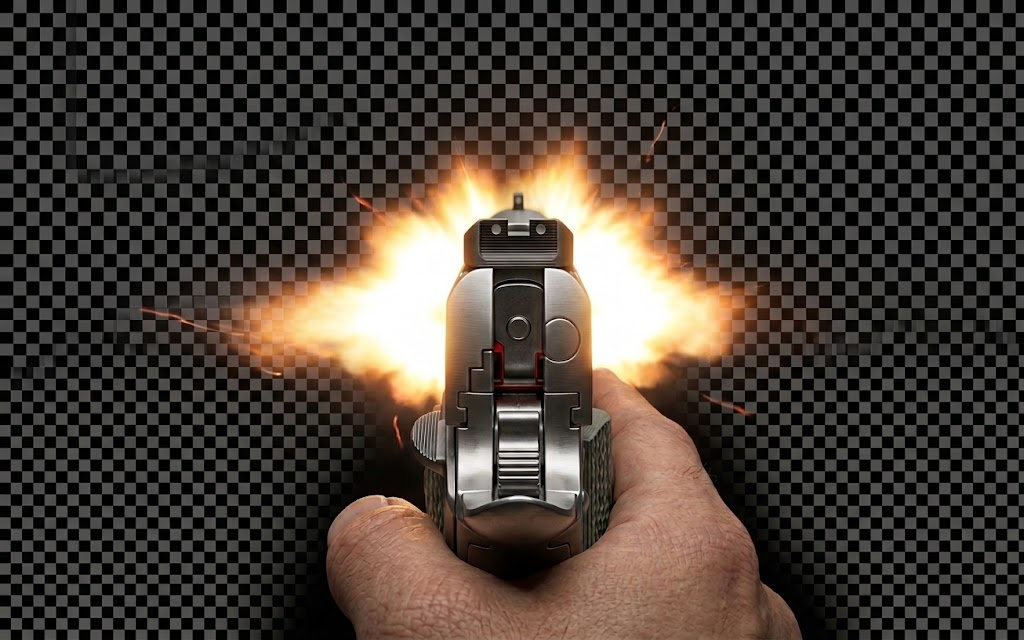
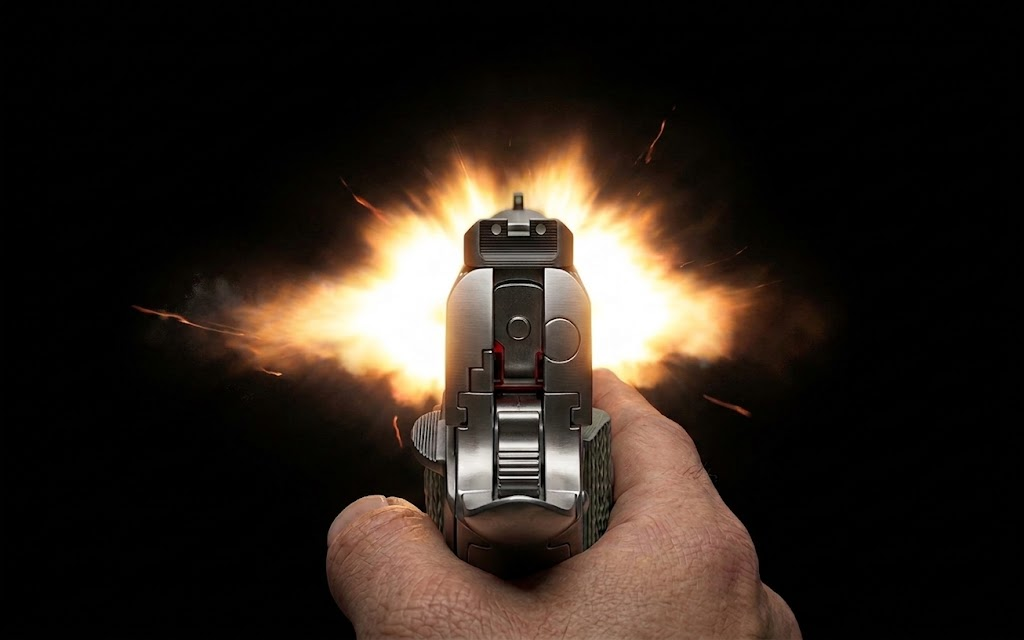
Use the cleaner background-removed weapon art
- Pistol, shotgun, and chaingun now load from GunsNoBackground: clean
  cutouts, and the chaingun sheet has no frame lines or labels so its
  cells slice cleanly
- The shotgun gains a real firing frame (muzzle blast), replacing the
  drawn flash
- Weapon art paths are folder-qualified so entries can mix My Guns
  and GunsNoBackground; new folder ships with the repo

diff --git a/index.html b/index.html
@@ -2151,16 +2151,17 @@ let gunFireT = 99;   // seconds since the current weapon last fired
 // become firing animations. Always outranks the gif art.
 // -----------------------------------------------------
 const MY_GUN_ART = [
-  { file: "hand idle.png",      slot: 0, mode: "single", use: "idle" },
-  { file: "fist.png",           slot: 0, mode: "single", use: "fire" },
-  { file: "pistol.png",         slot: 1, mode: "single", use: "idle" },
-  { file: "pistol shooting.png", slot: 1, mode: "single", use: "fire" },
-  { file: "shotgun.png",        slot: 2, mode: "single", use: "idle" },
-  { file: "chaingun.png",       slot: 3, mode: "grid", cols: 4, rows: 2, idle: 0, fire: [1, 2, 3], inset: 0.085 },
-  { file: "rocketlauncher.png", slot: 4, mode: "grid", cols: 4, rows: 3, idle: 0, fire: [2, 3, 4], inset: 0.02 },
-  { file: "plasma gun.png",     slot: 5, mode: "grid", cols: 3, rows: 2, idle: 0, fire: [1, 2, 4], inset: 0.07, capBottom: 0.09 },
-  { file: "BFG2704.png",        slot: 6, mode: "single", use: "idle" },
-  { file: "chainsaw.png",       slot: 7, mode: "grid", cols: 4, rows: 2, idle: 0, fire: [1, 2, 3, 4, 5], inset: 0.02, capBottom: 0.06 },
+  { file: "My Guns/hand idle.png",      slot: 0, mode: "single", use: "idle" },
+  { file: "My Guns/fist.png",           slot: 0, mode: "single", use: "fire" },
+  { file: "GunsNoBackground/Pistol.png",           slot: 1, mode: "single", use: "idle" },
+  { file: "GunsNoBackground/Pistol shooting.png",  slot: 1, mode: "single", use: "fire" },
+  { file: "GunsNoBackground/Shotgun.png",          slot: 2, mode: "single", use: "idle" },
+  { file: "GunsNoBackground/shotgun shooting.png", slot: 2, mode: "single", use: "fire" },
+  { file: "GunsNoBackground/Chaingun.png",         slot: 3, mode: "grid", cols: 4, rows: 2, idle: 0, fire: [1, 2, 3], inset: 0.01 },
+  { file: "My Guns/rocketlauncher.png", slot: 4, mode: "grid", cols: 4, rows: 3, idle: 0, fire: [2, 3, 4], inset: 0.02 },
+  { file: "My Guns/plasma gun.png",     slot: 5, mode: "grid", cols: 3, rows: 2, idle: 0, fire: [1, 2, 4], inset: 0.07, capBottom: 0.09 },
+  { file: "My Guns/BFG2704.png",        slot: 6, mode: "single", use: "idle" },
+  { file: "My Guns/chainsaw.png",       slot: 7, mode: "grid", cols: 4, rows: 2, idle: 0, fire: [1, 2, 3, 4, 5], inset: 0.02, capBottom: 0.06 },
 ];
 function loadMyGun(cfg) {
   const img = new Image();
@@ -2215,7 +2216,7 @@ function loadMyGun(cfg) {
     art.fire = null;
   };
   img.onerror = () => {};
-  img.src = "Guns/My Guns/" + cfg.file;
+  img.src = "Guns/" + cfg.file;
 }
 MY_GUN_ART.forEach(loadMyGun);
 
